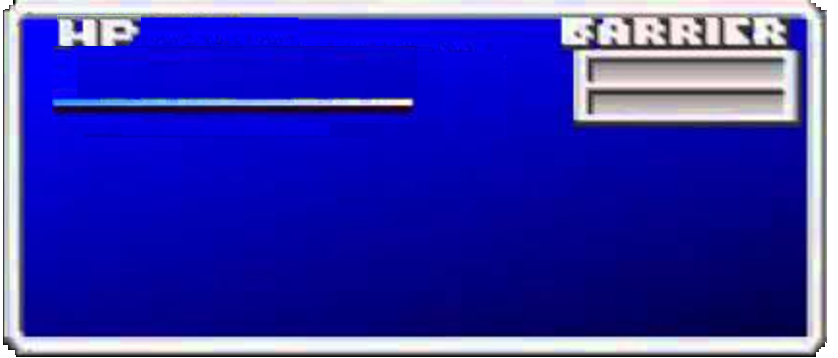
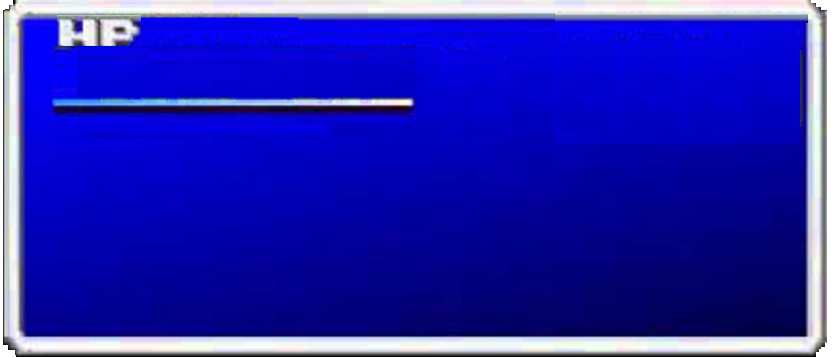
added player and enemy name plates, in game rule pop-up

Changed region(s): [[0.6516, 0.0307, 0.9618, 0.3994]]

diff --git a/style.css b/style.css
@@ -111,27 +111,37 @@ body {
     width:45%;
 }
 
-.matches, .attempts, .accuracy, .gamesPlayed {
+.matches, .attempts, .accuracy, .gamesPlayed, .infoTitle {
     position: absolute;
     left: 5%;
     height: 20%;
     width: 30%;
 }
 
-.matches {
+.infoTitle {
     top: 10%;
 }
 
-.attempts {
+.matches {
     top: 25%;
 }
 
-.accuracy {
+.attempts {
     top: 40%;
 }
 
-.gamesPlayed {
+.accuracy {
     top: 55%;
+}
+
+.gamesPlayed {
+    top: 70%;
+}
+
+.playerNamePlate {
+    position: absolute;
+    right: 15%;
+    top: 10%;
 }
 
 .info .progress {
@@ -195,6 +205,22 @@ body {
     width: 20%;
 }
 
+.enemyNamePlate{
+    position: absolute;
+    top: 8%;
+    right: 10%;
+    font-size: 12px;
+}
+
+.gameRules {
+    position: absolute;
+    background-color: none;
+    font-size: 16px;
+    color: white;
+    bottom: 22%;
+    left: 25%;
+}
+
 .gameStart {
     position: absolute;
     width: 100%;
@@ -228,7 +254,7 @@ body {
     top: 0;
 }
 
-.continue, .newGame, .victoryNewGame,.startButton,.pauseAudioButton, .aboutButton {
+.continue, .newGame, .victoryNewGame,.startButton,.pauseAudioButton, .aboutButton, .gameRules {
     font-family: 'finalfantasy';
     position: absolute;
     background-color: transparent;
@@ -256,7 +282,7 @@ body {
     font-family: 'finalfantasy';
     background-color: white;
     position: absolute;
-    font-size: 1vw;
+    font-size: 0.85vw;
     height: 40%;
     width: 25%;
     left: 35%;
@@ -270,20 +296,21 @@ body {
     height: 5%;
     width: 5%;
     top: 0;
-    right: 1%;
+    right: 3%;
     border: none;
     background: transparent;
 }
 
 .aboutDetails {
     position:relative;
+    width: 90%;
 }
 
 .pauseAudioButton{
     font-size: 16px;
     color: white;
     bottom: 33%;
-    right: 15%;
+    right: 10%;
     height:6%;
     width: 40%;
 }

diff --git a/index.html b/index.html
@@ -132,12 +132,14 @@
 </div>
 <div class="stats">
     <div class="enemyStats">
+        <div class="enemyNamePlate">ENEMY <br>BLUE SLIME</div>
         <div class="progress" id="enemyHealth">
             <div class="progress-bar" role="progressbar" id="enemyHpBar" aria-valuenow="1800" aria-valuemin="0" aria-valuemax="1800" style="width: 100%"></div>
             <div>
                 <span class="enemyHp">1800/1800</span>
             </div>
         </div>
+        <button class="gameRules">GAME RULES</button>
     </div>
     <div>
         <img src="images/blackMageIdle.gif" class="blackMageIdle">
@@ -149,6 +151,7 @@
         <img src="images/enemyDamaged.gif" class="enemyDamaged">
     </div>
     <div class="info">
+        <div class="infoTitle">STATS</div>
         <div class="matches"></div>
         <div class="attempts"></div>
         <div class="accuracy"></div>
@@ -159,6 +162,7 @@
                 <span class="playerHp">999/999</span>
             </div>
         </div>
+        <div class="playerNamePlate">PLAYER <br> BLACK MAGE</div>
         <button class="pauseAudioButton">PAUSE/PLAY AUDIO</button>
     </div>
 </div>

diff --git a/script/main.js b/script/main.js
@@ -18,6 +18,7 @@ function startApp () {
     $('.card').on('click', game.toggleBack);
     $('.startButton').on('click', game.hideStart);
     $('.aboutButton').on('click', game.showAbout);
+    $('.gameRules').on('click', game.showAbout);
     $('.xButton').on('click', game.hideAbout);
     $('.continue').on('click', game.gameOverContinue);
     $('.newGame').on('click', game.newGamePress);
